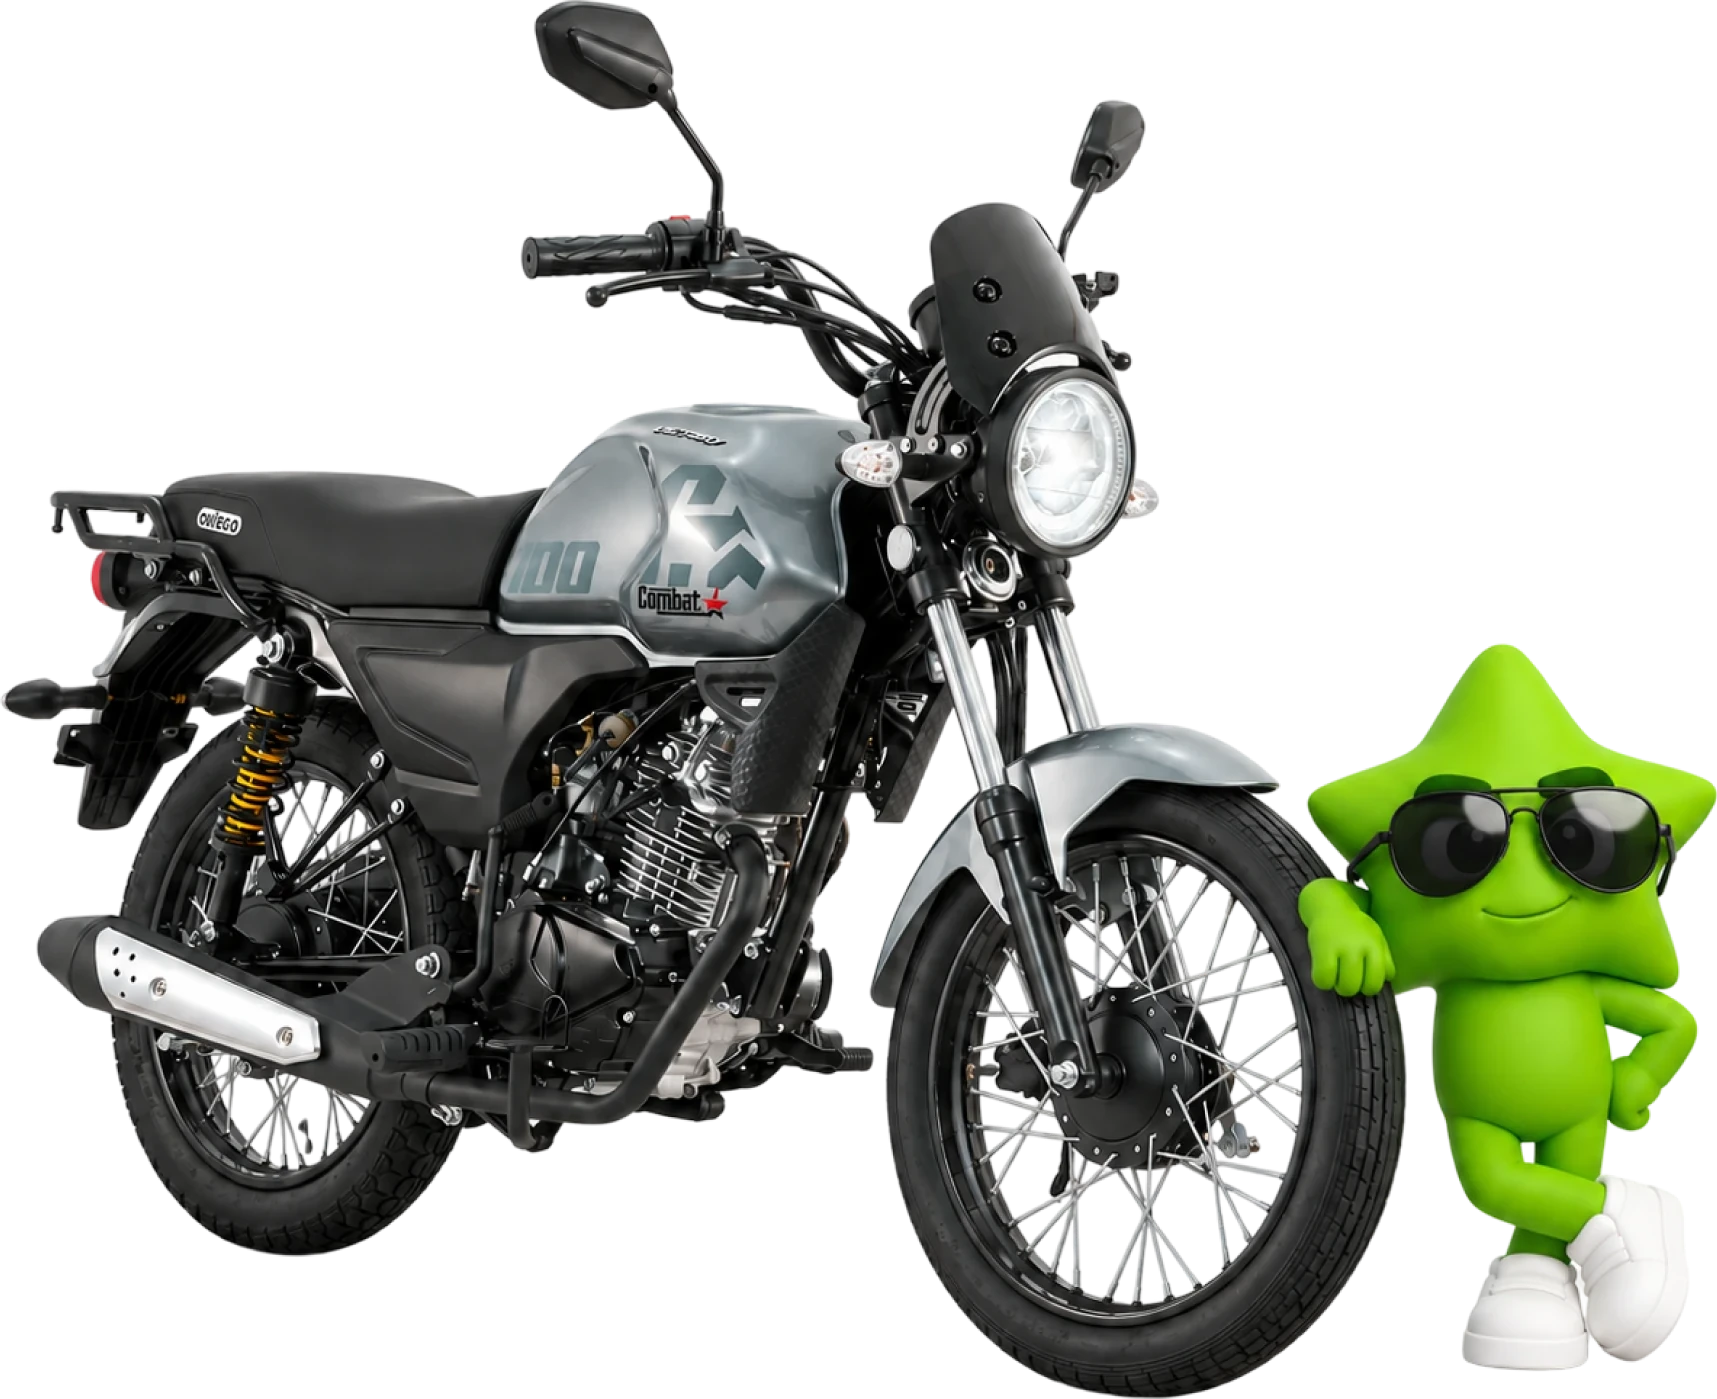
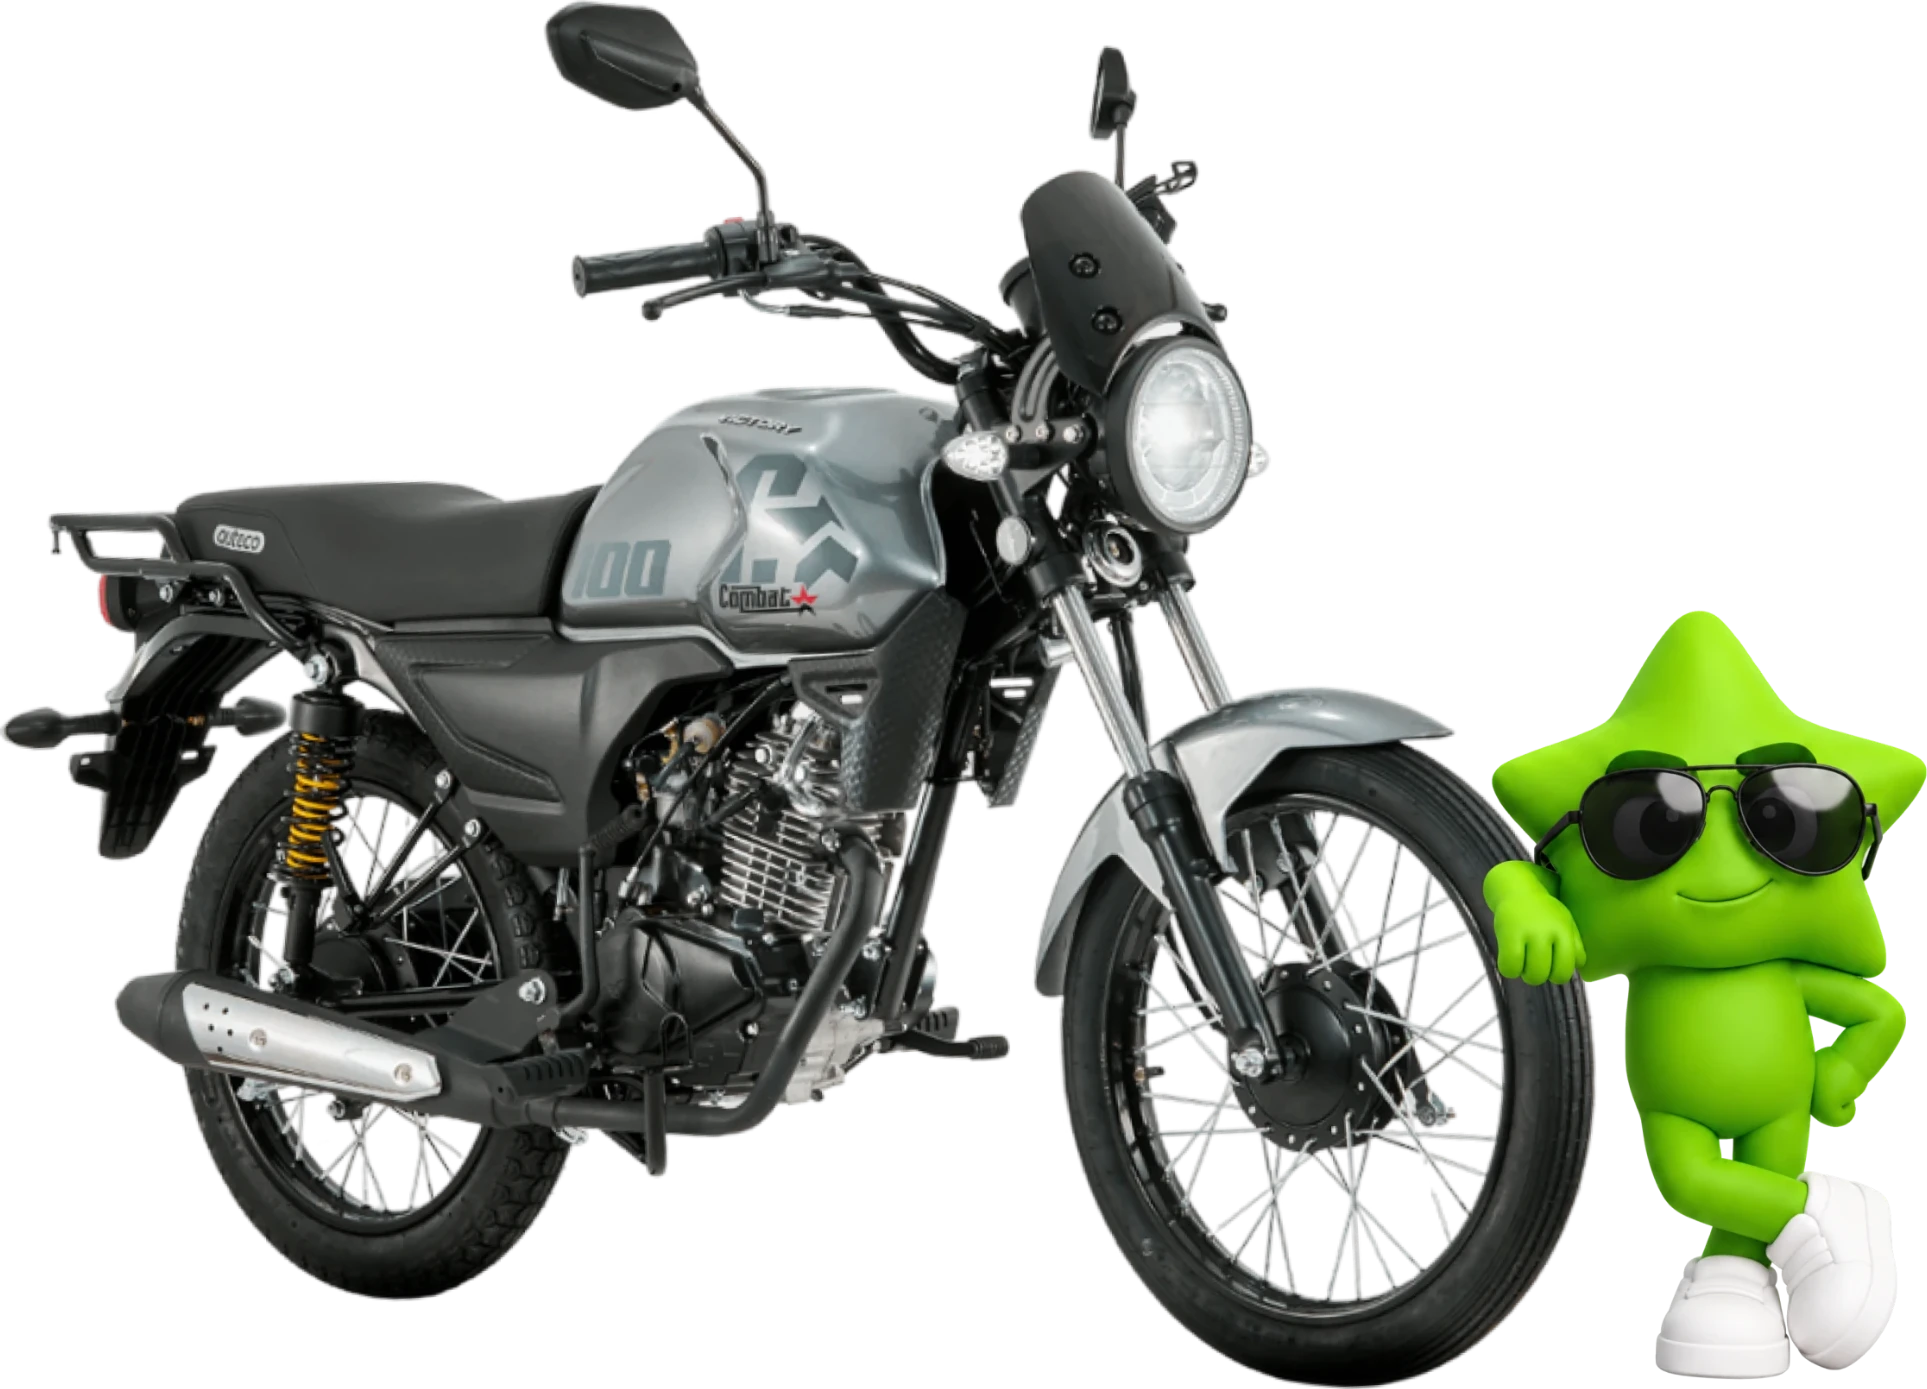
Nueva imagen de la moto con Gali en el anuncio del ganador
Versión del equipo con menos ángulo: las dos ruedas quedan sobre el
pedestal. 42% del alto, moto centrada en la pantalla y rueda trasera
sobre la superficie del pedestal (67,6%).

diff --git a/index.html b/index.html
@@ -147,7 +147,7 @@ body.spinning .pointer-wrap { animation: none; }
 }
 .winner .overline { color: var(--n09); font-size: 2.2cqh; letter-spacing: .18em; font-weight: 700; text-shadow: 0 .2cqh .5cqh rgba(10,11,12,.8), 0 0 1.6cqh rgba(10,11,12,.6); }
 .winner .prize-img {
-  position: absolute; left: 24.1cqh; bottom: 27.9cqh; height: 44cqh; width: auto; object-fit: contain;
+  position: absolute; left: 22.1cqh; bottom: 29.7cqh; height: 42cqh; width: auto; object-fit: contain;
   filter: drop-shadow(0 1.2cqh 1.4cqh rgba(0,0,0,.55));
   animation: ride .9s cubic-bezier(.2, 1.15, .3, 1) both;
 }
